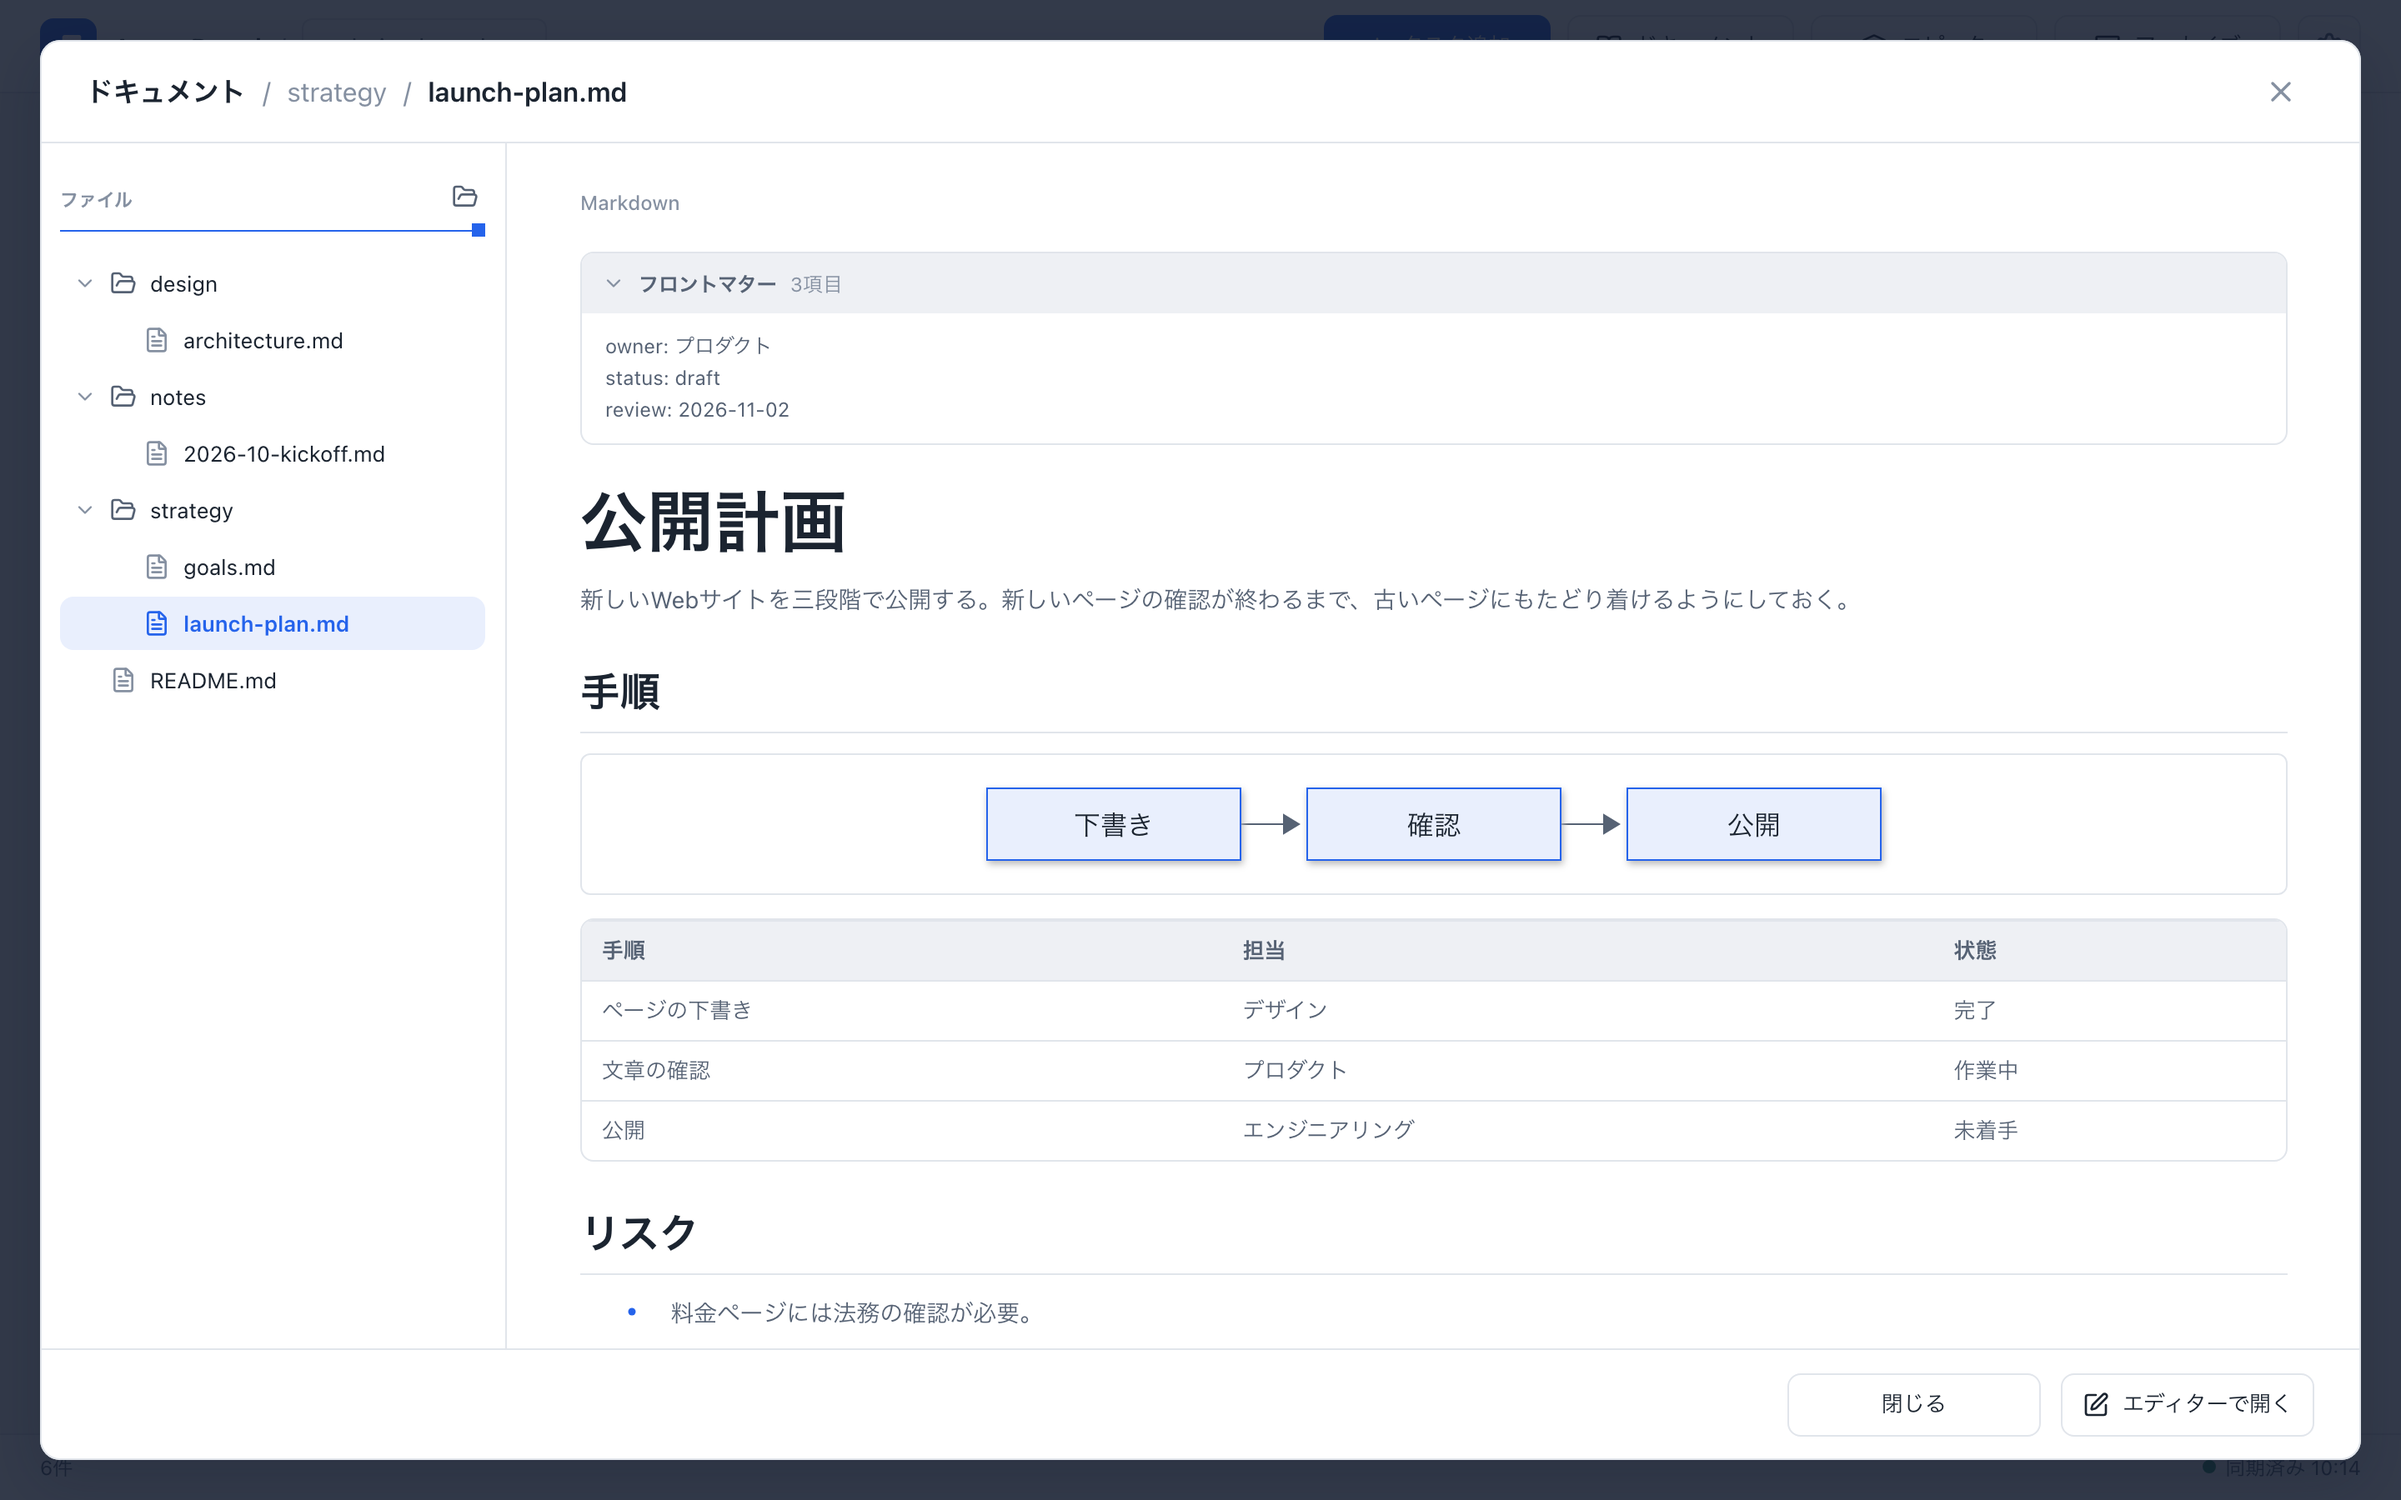
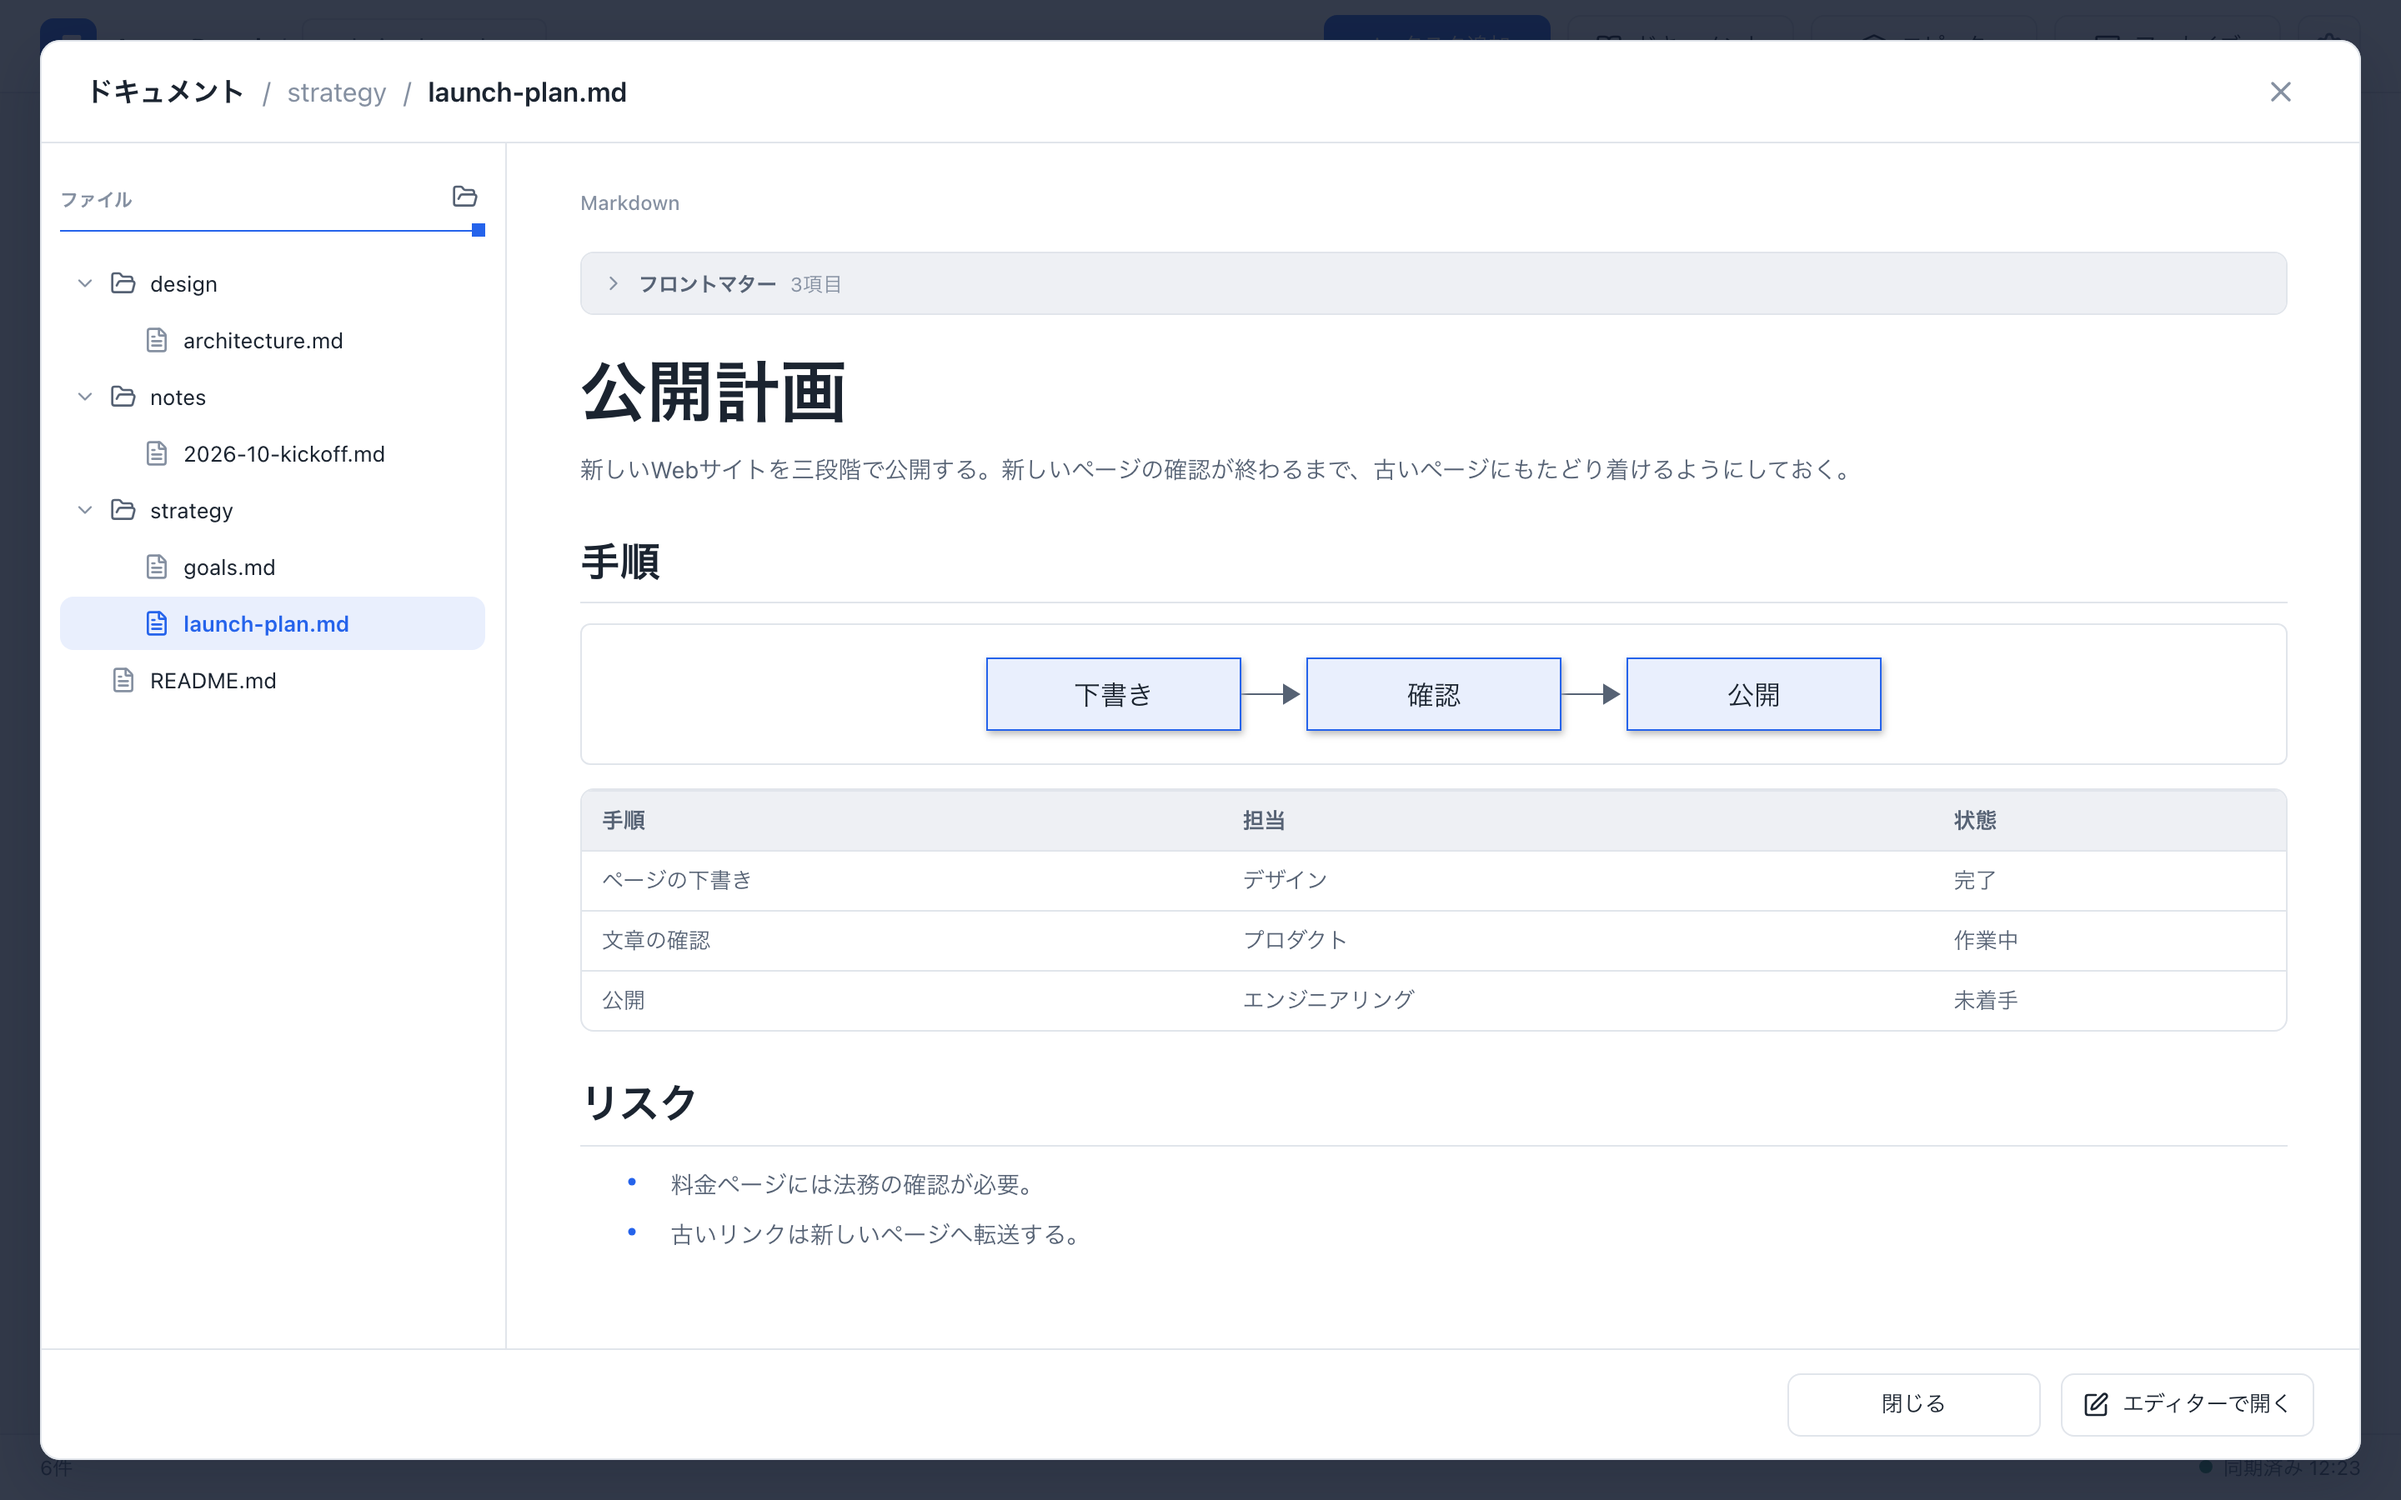
feat: fold the Docs front matter at first
The front matter panel opens folded with its item count, so the body
comes first; choosing it shows the lines. The guide and its screenshot
follow.

diff --git a/web/src/features/docs/ui/document/DocumentPane.stories.tsx b/web/src/features/docs/ui/document/DocumentPane.stories.tsx
@@ -77,20 +77,20 @@ export const Ready: Story = {
   },
 };
 
-/** The front matter sits above the body and folds. */
+/** The front matter sits above the body, folded at first. */
 export const WithFrontmatter: Story = {
   args: { frontmatter },
   play: async () => {
     const view = await opened();
     const head = view.getByRole('button', { name: /Front matter/ });
-    await expect(head).toHaveAttribute('aria-expanded', 'true');
-    await expect(head).toHaveTextContent('3 items');
-    await expect(view.getByText(/status: draft/)).toBeVisible();
-    await userEvent.click(head);
     await expect(head).toHaveAttribute('aria-expanded', 'false');
+    await expect(head).toHaveTextContent('3 items');
     await expect(view.getByText(/status: draft/)).not.toBeVisible();
     await userEvent.click(head);
+    await expect(head).toHaveAttribute('aria-expanded', 'true');
     await expect(view.getByText(/status: draft/)).toBeVisible();
+    await userEvent.click(head);
+    await expect(view.getByText(/status: draft/)).not.toBeVisible();
   },
 };
 

diff --git a/web/src/features/docs/ui/document/FrontmatterBlock.tsx b/web/src/features/docs/ui/document/FrontmatterBlock.tsx
@@ -7,6 +7,7 @@ import '@/shared/i18n/docs-strings';
 export interface FrontmatterBlockProps {
   /** The front matter exactly as the file holds it, with its `---` lines. */
   source: string;
+  /** Open at first; folded unless the caller says so, so the body comes first. */
   defaultOpen?: boolean;
 }
 
@@ -24,11 +25,8 @@ function countItems(lines: string[]): number {
   return lines.filter((line) => /^[^\s#-][^:]*:/.test(line)).length;
 }
 
-/**
- * The front matter above the body. It is shown for reading only and folds; the file's own text
- * is put back on save, so it is never part of what the editor edits.
- */
-export function FrontmatterBlock({ source, defaultOpen = true }: FrontmatterBlockProps) {
+/** The front matter above the body: its item count, folded at first, and its lines when opened. */
+export function FrontmatterBlock({ source, defaultOpen = false }: FrontmatterBlockProps) {
   const { t } = useTranslation();
   const [open, setOpen] = useState(defaultOpen);
   const bodyId = useId();

diff --git a/web/src/features/docs/ui/document/FrontmatterBlock.stories.tsx b/web/src/features/docs/ui/document/FrontmatterBlock.stories.tsx
@@ -13,12 +13,15 @@ const meta = {
 export default meta;
 type Story = StoryObj<typeof meta>;
 
-/** Shown for reading, with its item count, and folds. */
+/** Folded at first with its item count; it opens to show the lines and folds again. */
 export const WithFrontmatter: Story = {
   play: async ({ canvasElement }) => {
     const view = within(canvasElement);
     const head = view.getByRole('button', { name: /Front matter/ });
     await expect(head).toHaveTextContent('3 items');
+    await expect(head).toHaveAttribute('aria-expanded', 'false');
+    await expect(view.getByText(/title: Tasks/)).not.toBeVisible();
+    await userEvent.click(head);
     await expect(view.getByText(/title: Tasks/)).toBeVisible();
     await userEvent.click(head);
     await expect(view.getByText(/title: Tasks/)).not.toBeVisible();

diff --git a/docs/ja/guide/use/docs.md b/docs/ja/guide/use/docs.md
@@ -25,7 +25,7 @@ title: プロジェクトのドキュメント
 | 画像（`.png`・`.jpg`・`.jpeg`・`.webp`・`.gif`・`.avif`・`.svg`） | 画像そのもの。 |
 | それ以外（`.pen`、`.json`、`.txt` など） | **表示対象外のファイルです。** とファイル名。 |
 
-- **フロントマター。** Markdown と MDX の先頭にある `---` で囲んだ YAML は、本文の上の **フロントマター** の枠に分けて表示します。折りたためます。
+- **フロントマター。** Markdown と MDX の先頭にある `---` で囲んだ YAML は、本文の上の **フロントマター** の枠に分けて表示します。最初は項目数だけを見せて閉じています。選ぶと中身を表示します。
 - **文書の中の画像。** `![図](images/flow.png)` のように相対パスで書いた画像は、そのファイルのあるフォルダを基準に探します。`http` と `https` のアドレスの画像は、ボードと同じように読み込みます。
 
 ファイルが一つもないときは **このプロジェクトにはDocsがありません** と表示し、データ領域の中のフォルダのパス `shared/projects/<project-id>/docs/` と、パスをコピーするボタンを出します。

diff --git a/docs/guide/use/docs.md b/docs/guide/use/docs.md
@@ -25,7 +25,7 @@ What the body shows depends on the type of file:
 | Images (`.png`, `.jpg`, `.jpeg`, `.webp`, `.gif`, `.avif`, `.svg`) | The picture. |
 | Any other file, such as `.pen`, `.json`, or `.txt` | **This file type cannot be shown here.** with the file's name. |
 
-- **Front matter.** A YAML block between `---` lines at the top of a Markdown or MDX file is shown in a separate **Front matter** panel above the body. You can fold it.
+- **Front matter.** A YAML block between `---` lines at the top of a Markdown or MDX file is shown in a separate **Front matter** panel above the body, folded at first with the number of items. Choose it to show the lines.
 - **Images in a document.** An image written with a relative path, such as `![Diagram](images/flow.png)`, is looked up from the file's own folder. Images from `http` and `https` addresses load as they do on the board.
 
 If the project has no files, the dialog says **This project has no docs** and shows the folder's path, `shared/projects/<project-id>/docs/` in the data area, with a button to copy it.
